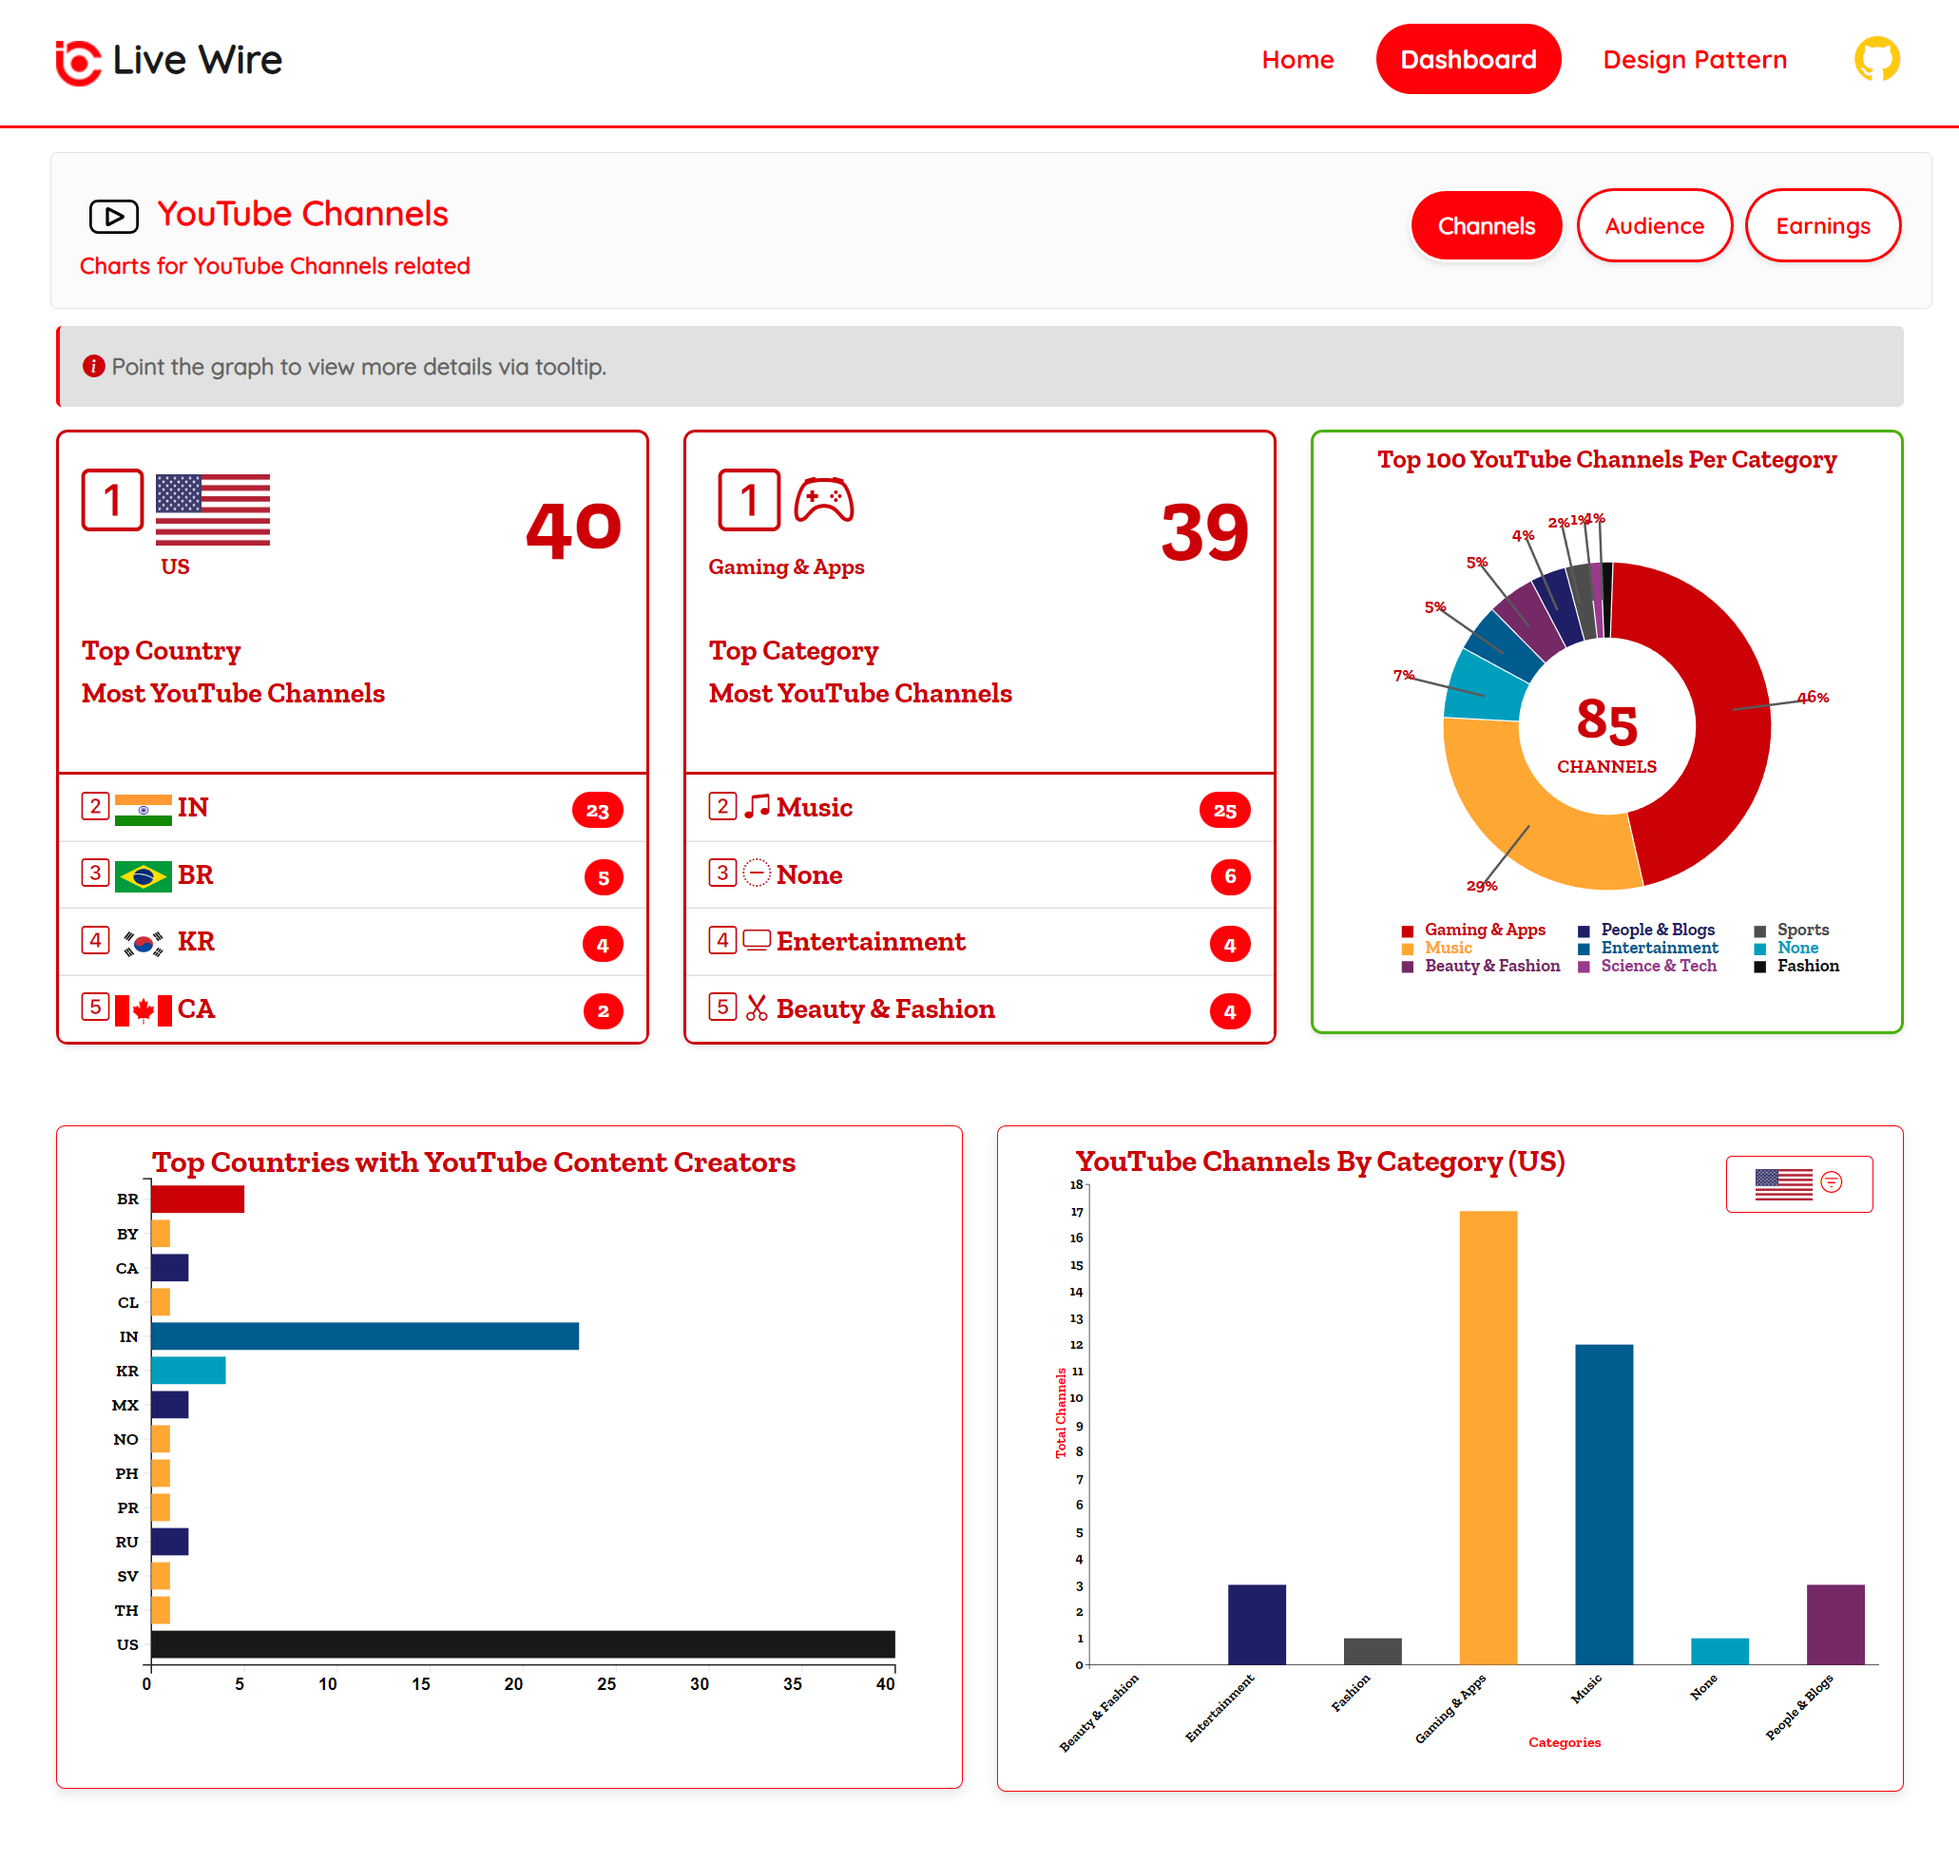
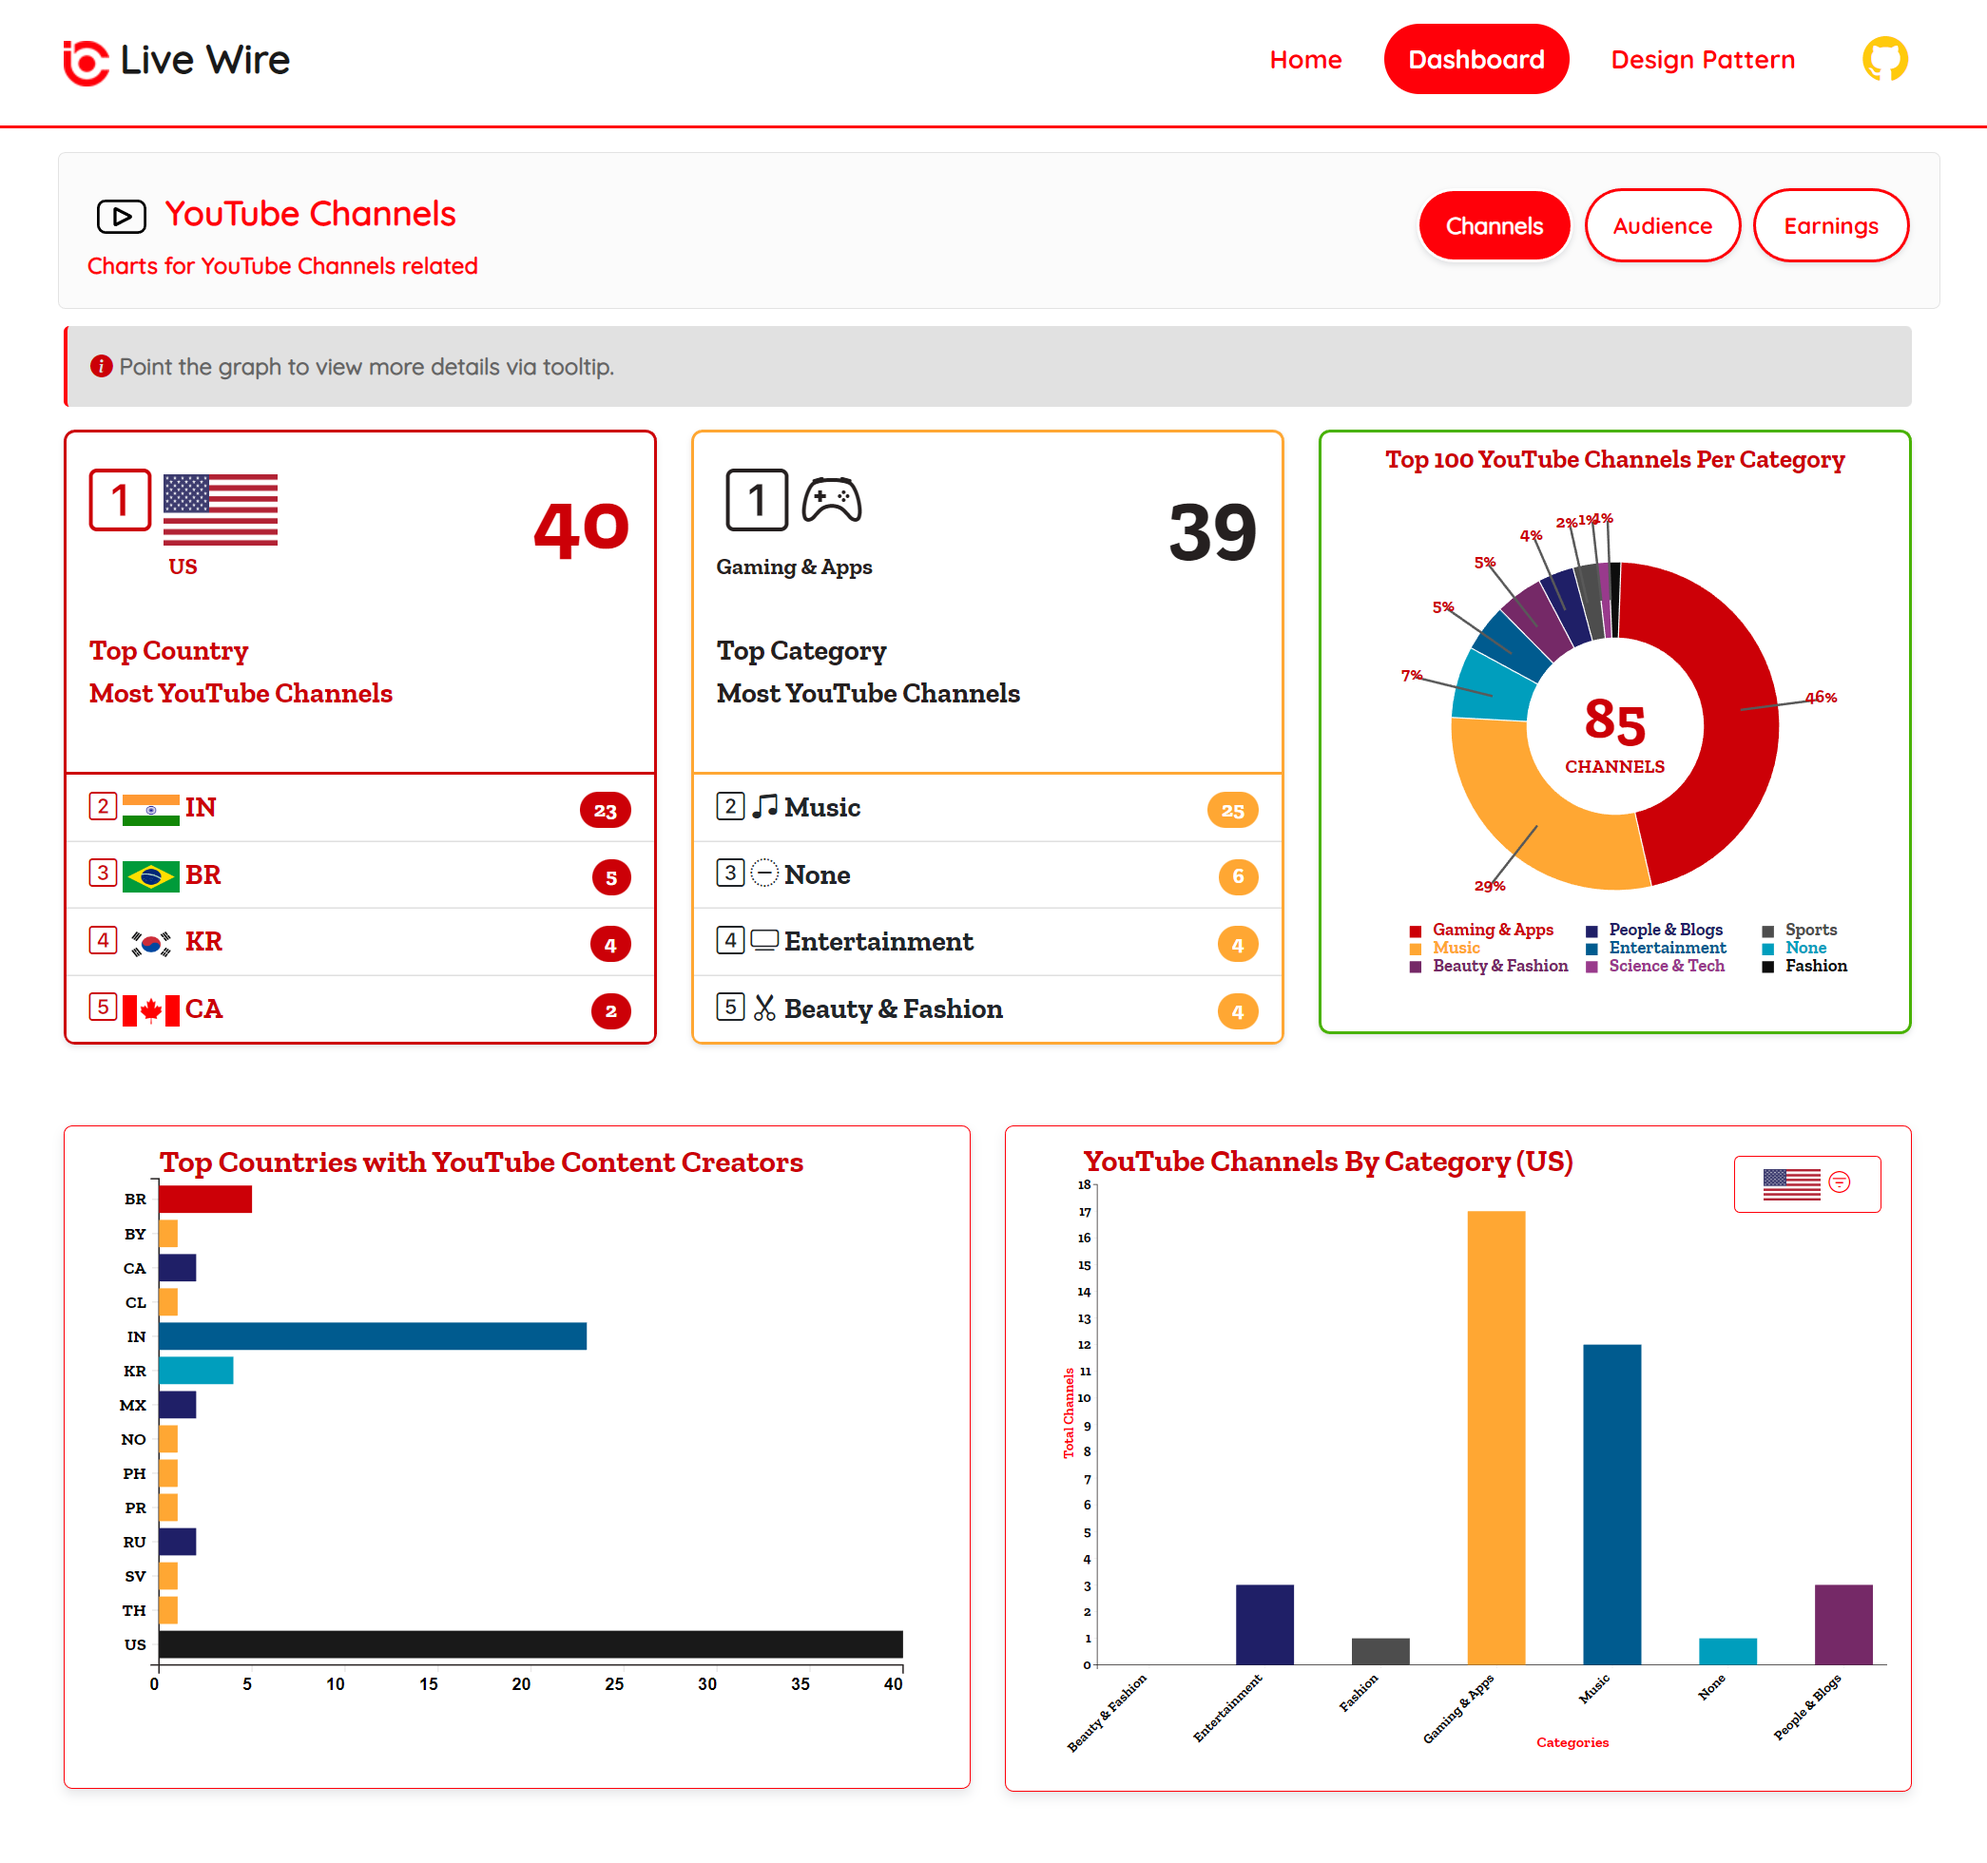
finalize

diff --git a/channels.html b/channels.html
@@ -141,7 +141,7 @@
                 
               </div>
               <div class="col-lg-4">
-                <div class="card mb-3 stat-chart-icon stat-chart-primary-outline ">
+                <div class="card mb-3 stat-chart-icon stat-chart-warning-outline ">
                   <div class="d-flex justify-content-between p-3">
                   <div class="start-chart-icon" id="top-category">1
                     </div>
@@ -152,23 +152,23 @@
                   <div class="stat-chart-text-lg">Top Category</div>
                   <div class="stat-chart-text-lg pb-3"> Most YouTube Channels</div>
                   <ul class="list-group list-group-flush mt-4">
-                    <li class="list-group-item  fs-5 text-start text-secondary">
-                      <i class="bi bi-2-square text-primary"></i> 
+                    <li class="list-group-item  fs-5 text-start">
+                      <i class="bi bi-2-square"></i> 
                       <span class="" id="top-2-category"></span>
                     
                     </li>
-                    <li class="list-group-item  fs-5 text-start text-secondary">
-                      <i class="bi bi-3-square text-primary"></i> 
+                    <li class="list-group-item  fs-5 text-start">
+                      <i class="bi bi-3-square"></i> 
                       <span class="" id="top-3-category"></span>
                    
                     </li>
-                    <li class="list-group-item  fs-5 text-start text-secondary">
-                      <i class="bi bi-4-square text-primary"></i> 
+                    <li class="list-group-item  fs-5 text-start">
+                      <i class="bi bi-4-square"></i> 
                       <span class="" id="top-4-category"></span>
                    
                     </li>
-                    <li class="list-group-item  fs-5 text-start text-primary">
-                      <i class="bi bi-5-square text-primary"></i> 
+                    <li class="list-group-item  fs-5 text-start">
+                      <i class="bi bi-5-square"></i> 
                       <span class="" id="top-5-category"></span>
                    
                     </li>

diff --git a/assets/js/charts/chart1.js b/assets/js/charts/chart1.js
@@ -149,10 +149,10 @@ g.selectAll('.allLabels')
     const cat = document.getElementById('top-category');
     cat.innerHTML = '<i class="bi bi-1-square"></i> <i class="bi bi-controller"></i><br/><div class="fs-6">'+cats[0]+'</div>';
     document.getElementById('top-category-value').innerHTML = catsValue[0];
-    document.getElementById('top-2-category').innerHTML  =  '<span class="text-primary"> <i class="bi bi-music-note-beamed"></i> '+ cats[1] + '</span>  <span class="badge bg-dark rounded-pill float-end mt-1">'+catsValue[1]+'</span>';
-    document.getElementById('top-3-category').innerHTML  =  '<span class="text-primary"> <i class="bi bi-dash-circle-dotted"></i> '+ cats[2] + '</span>  <span class="badge bg-dark rounded-pill float-end mt-1">'+catsValue[2]+'</span>';
-    document.getElementById('top-4-category').innerHTML  =  '<span class="text-primary"> <i class="bi bi-tv"></i> '+ cats[3] + '</span>  <span class="badge bg-dark rounded-pill float-end mt-1">'+catsValue[3]+'</span>';
-    document.getElementById('top-5-category').innerHTML  =  '<span class="text-primary"> <i class="bi bi-scissors"></i> '+ cats[4] + '</span>  <span class="badge bg-dark rounded-pill float-end mt-1">'+catsValue[4]+'</span>';
+    document.getElementById('top-2-category').innerHTML  =  '<span class=""> <i class="bi bi-music-note-beamed"></i> '+ cats[1] + '</span>  <span class="badge bg-warn rounded-pill float-end mt-1">'+catsValue[1]+'</span>';
+    document.getElementById('top-3-category').innerHTML  =  '<span class=""> <i class="bi bi-dash-circle-dotted"></i> '+ cats[2] + '</span>  <span class="badge bg-warn rounded-pill float-end mt-1">'+catsValue[2]+'</span>';
+    document.getElementById('top-4-category').innerHTML  =  '<span class=""> <i class="bi bi-tv"></i> '+ cats[3] + '</span>  <span class="badge bg-warn rounded-pill float-end mt-1">'+catsValue[3]+'</span>';
+    document.getElementById('top-5-category').innerHTML  =  '<span class=""> <i class="bi bi-scissors"></i> '+ cats[4] + '</span>  <span class="badge bg-warn rounded-pill float-end mt-1">'+catsValue[4]+'</span>';
    
 
 svg.selectAll(".legend")

diff --git a/assets/css/stat-chart/stat-chart.css b/assets/css/stat-chart/stat-chart.css
@@ -35,7 +35,7 @@
     border-color: var(--rosso);
 }
 .stat-chart-warning{
-    border: 2px solid var(--white);
+    border: 2px solid var(--apricot);
     color: var(--white);
     background: var(--apricot);
 }
@@ -46,7 +46,7 @@
     border-color: var(--apricot);
 }
 .stat-chart-warning-outline:hover{
-    border: 2px solid var(--white);
+    border: 2px solid var(--apricot);
     color: var(--black);
     background: var(--apricot);
 }
@@ -55,6 +55,7 @@
     background: var(--white);
     cursor:pointer;
     border-color: var(--apricot);
+    border: 2px solid var(--apricot);
 }
 .stat-chart-success{
     border: 2px solid var(--white);

diff --git a/audience.html b/audience.html
@@ -120,7 +120,7 @@
                   <div class="stat-chart-text-lg pb-3"> Most YouTube Followers</div>
                 
                 </div>
-                <div class="card mb-3 stat-chart-icon stat-chart-primary-outline ">
+                <div class="card mb-3 stat-chart-icon stat-chart-warning">
                   <div class="d-flex justify-content-between p-3">
                   <div class="start-chart-icon" id="top-channel-followers">1
                     </div>

diff --git a/assets/css/starter.css b/assets/css/starter.css
@@ -583,6 +583,9 @@ font-family: var(--font-family-sec-bold) !important;
 }
 
 .bg-dark{
-  background-color: var(--primary) !important;
+  background-color: var(--rosso) !important;
+}
+.bg-warn{
+  background-color: var(--apricot) !important;
 }
 /*# sourceMappingURL=starter.css.map */
